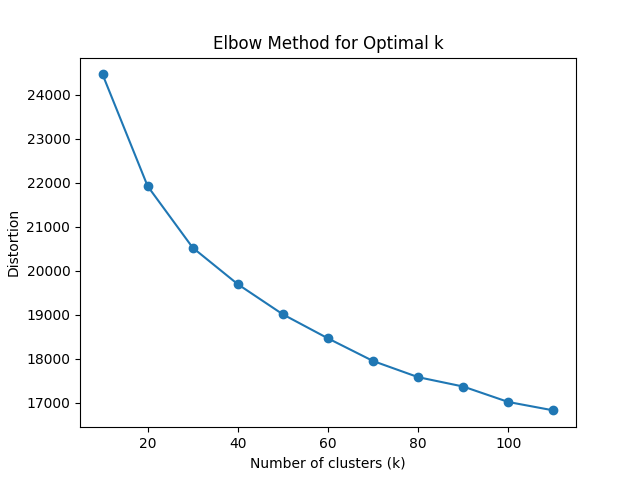
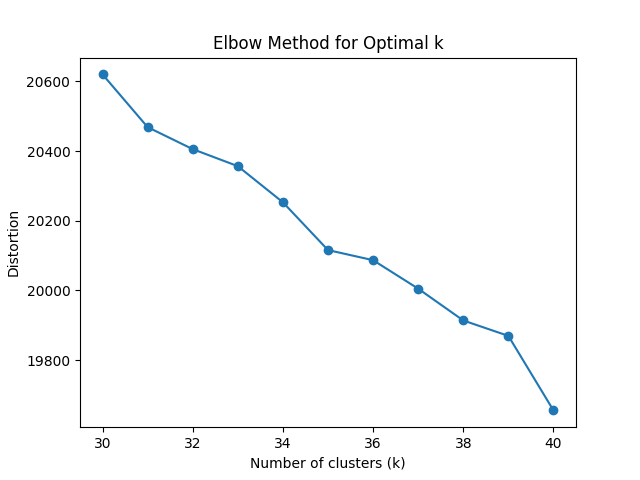
k=35 by elbow & silhouette

diff --git a/k-mean_clustering_word2vect.py b/k-mean_clustering_word2vect.py
@@ -51,7 +51,7 @@ if __name__ == "__main__":
     print('--- start K-means clustering ---')
     
     # Use multiprocessing to process kmean in parallel
-    k_list = range(25, 36)
+    k_list = range(30, 41)
     print('Processing K-means clustering...')
     with Pool(parallel_num) as pool:
         k_instances = pool.starmap(process_kmeans, zip(repeat(X), k_list))
